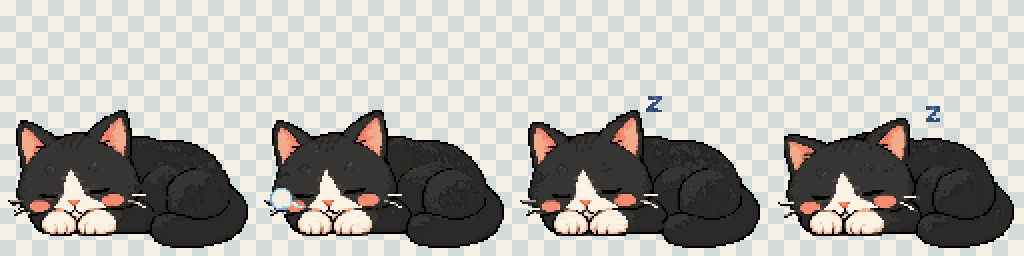
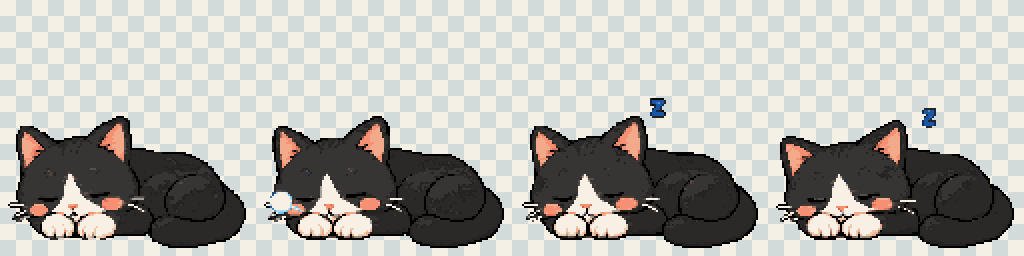
fix: align teen and adult cat doze proportions

diff --git a/src/screens/home/components/StaticPet.tsx b/src/screens/home/components/StaticPet.tsx
@@ -25,8 +25,8 @@ const hamsterBabyDozeSleepDurationMs = 12000;
 const hamsterBabyDozeLoop = [1, 2, 3, 2, 1];
 const hamsterBabyCushionDozeChance = 0.45;
 const catChildDozeDisplayScale = 1.2;
-const catTeenDozeDisplayScale = 1.3;
-const catAdultDozeDisplayScale = 1.4;
+const catTeenDozeDisplayScale = 1.1;
+const catAdultDozeDisplayScale = 1.15;
 const pixelatedImageStyle =
   Platform.OS === 'web'
     ? ({ imageRendering: 'pixelated' } as unknown as ImageStyle)
